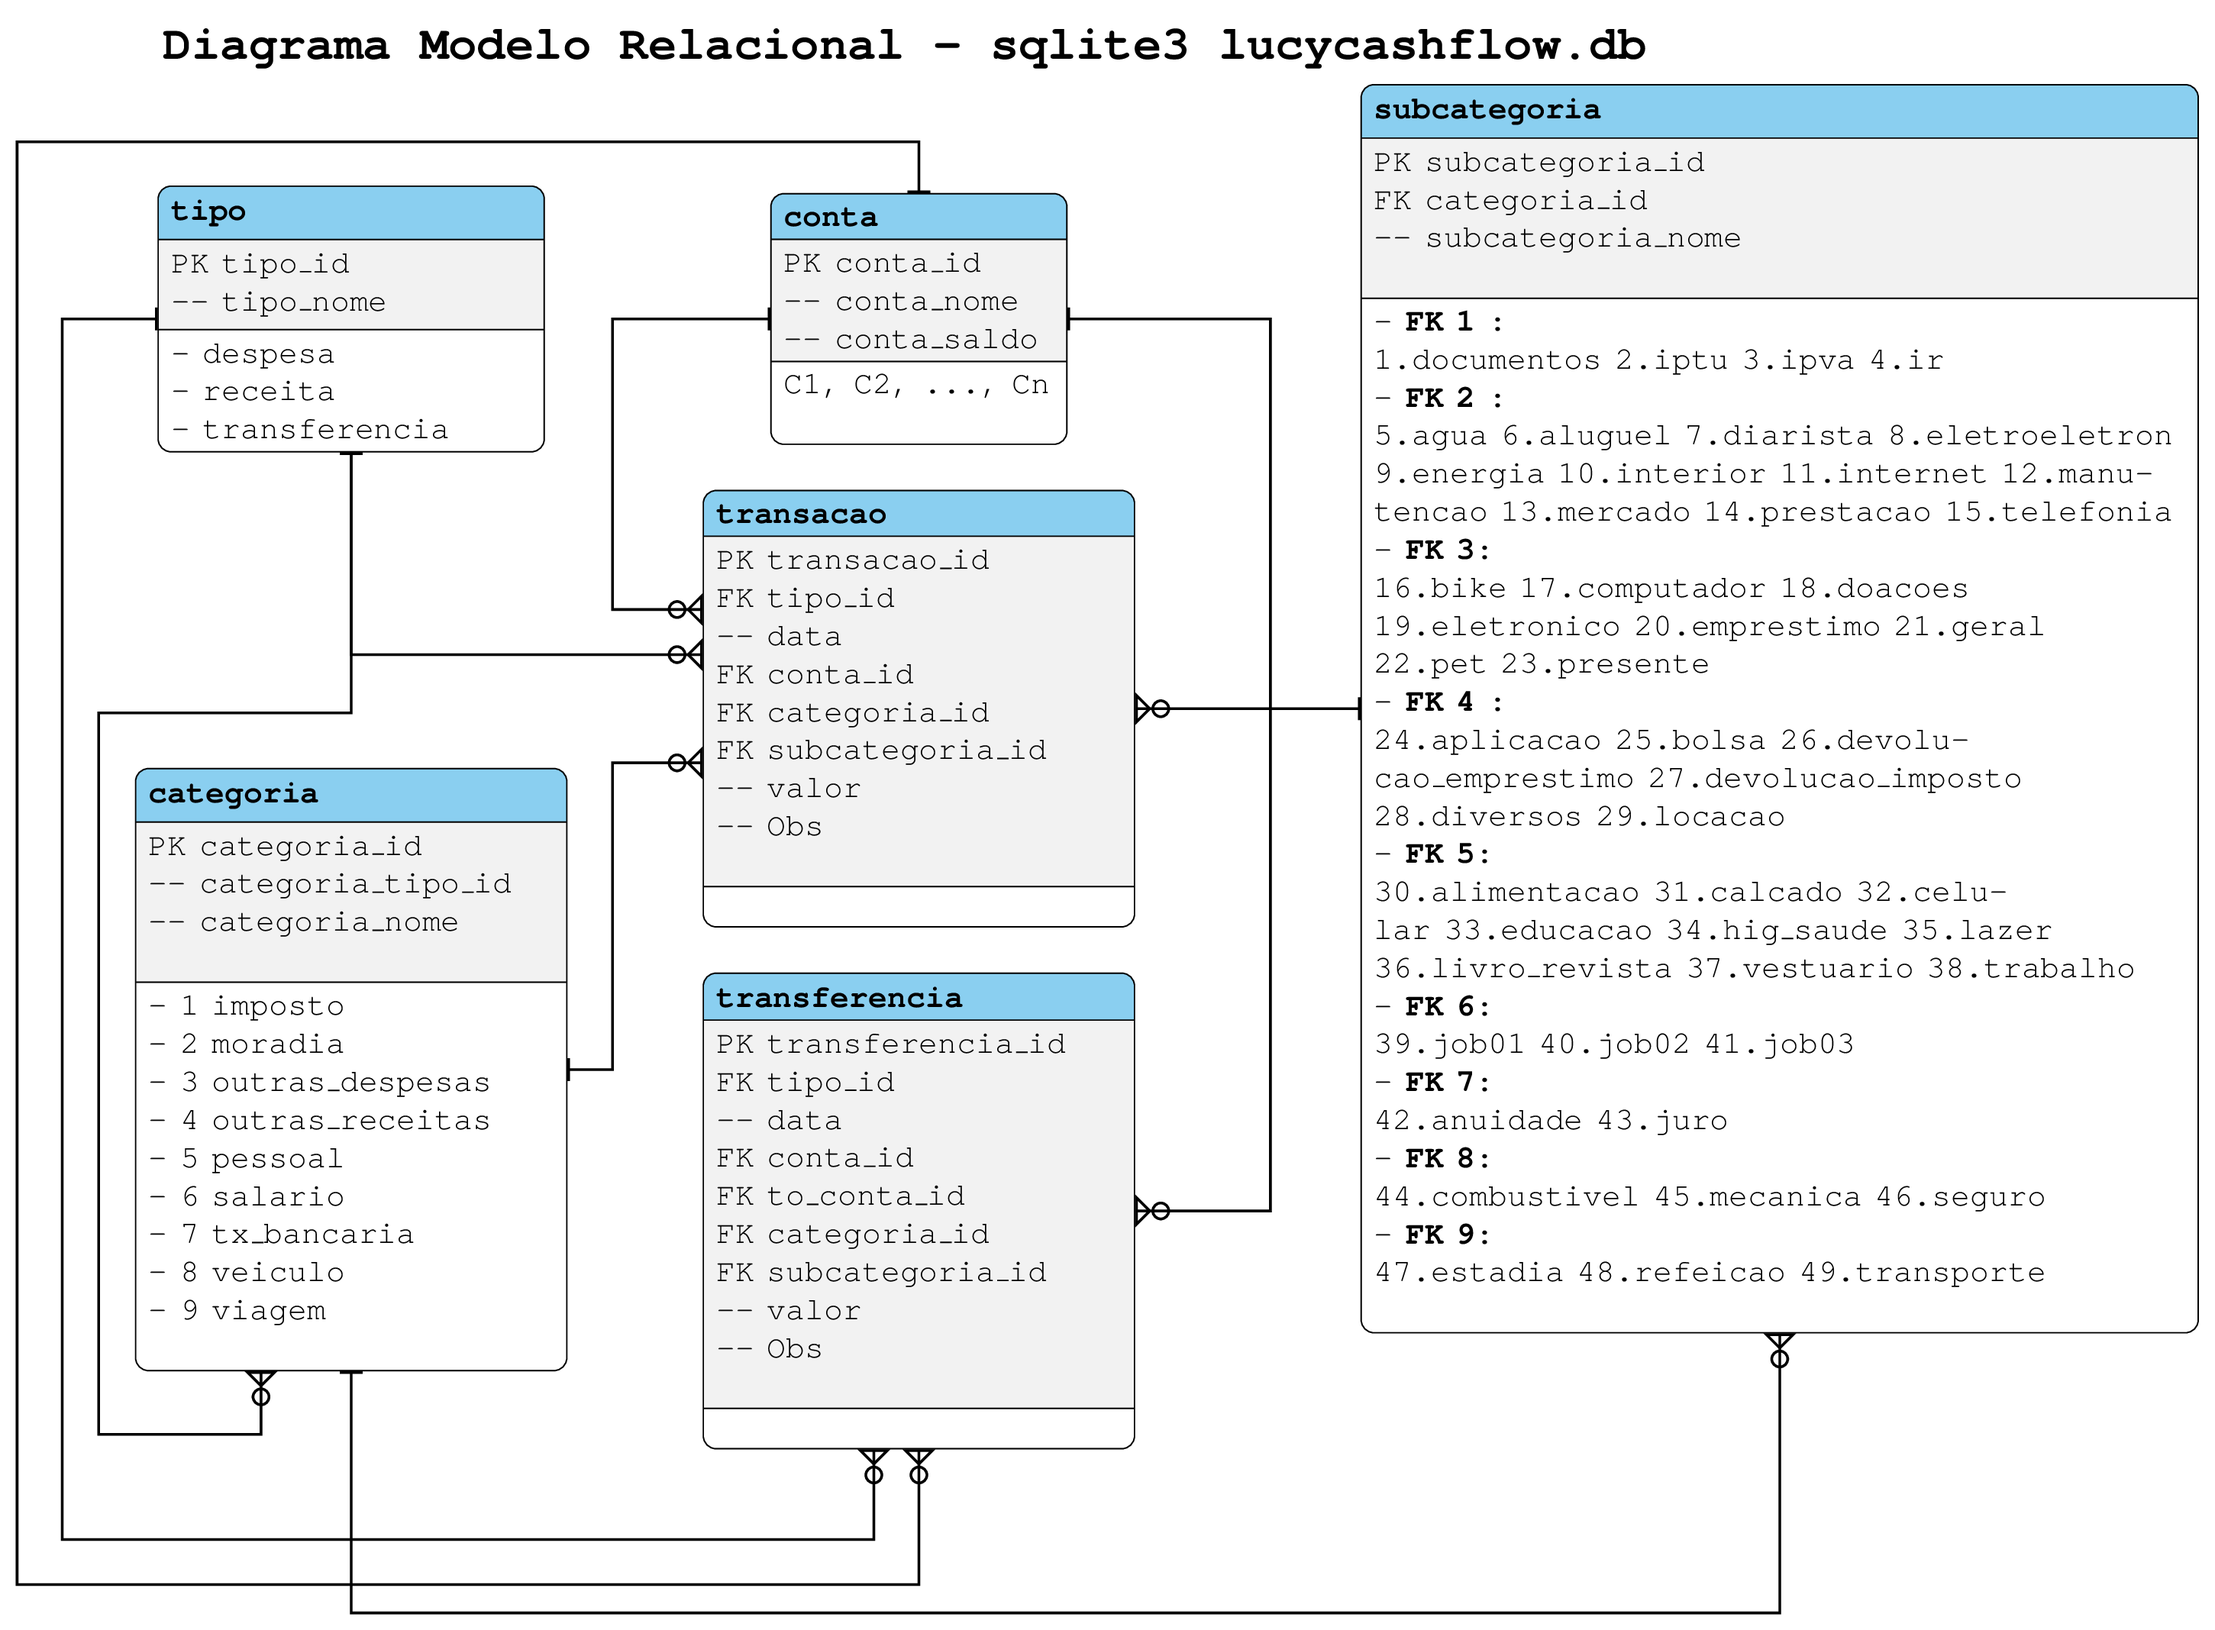
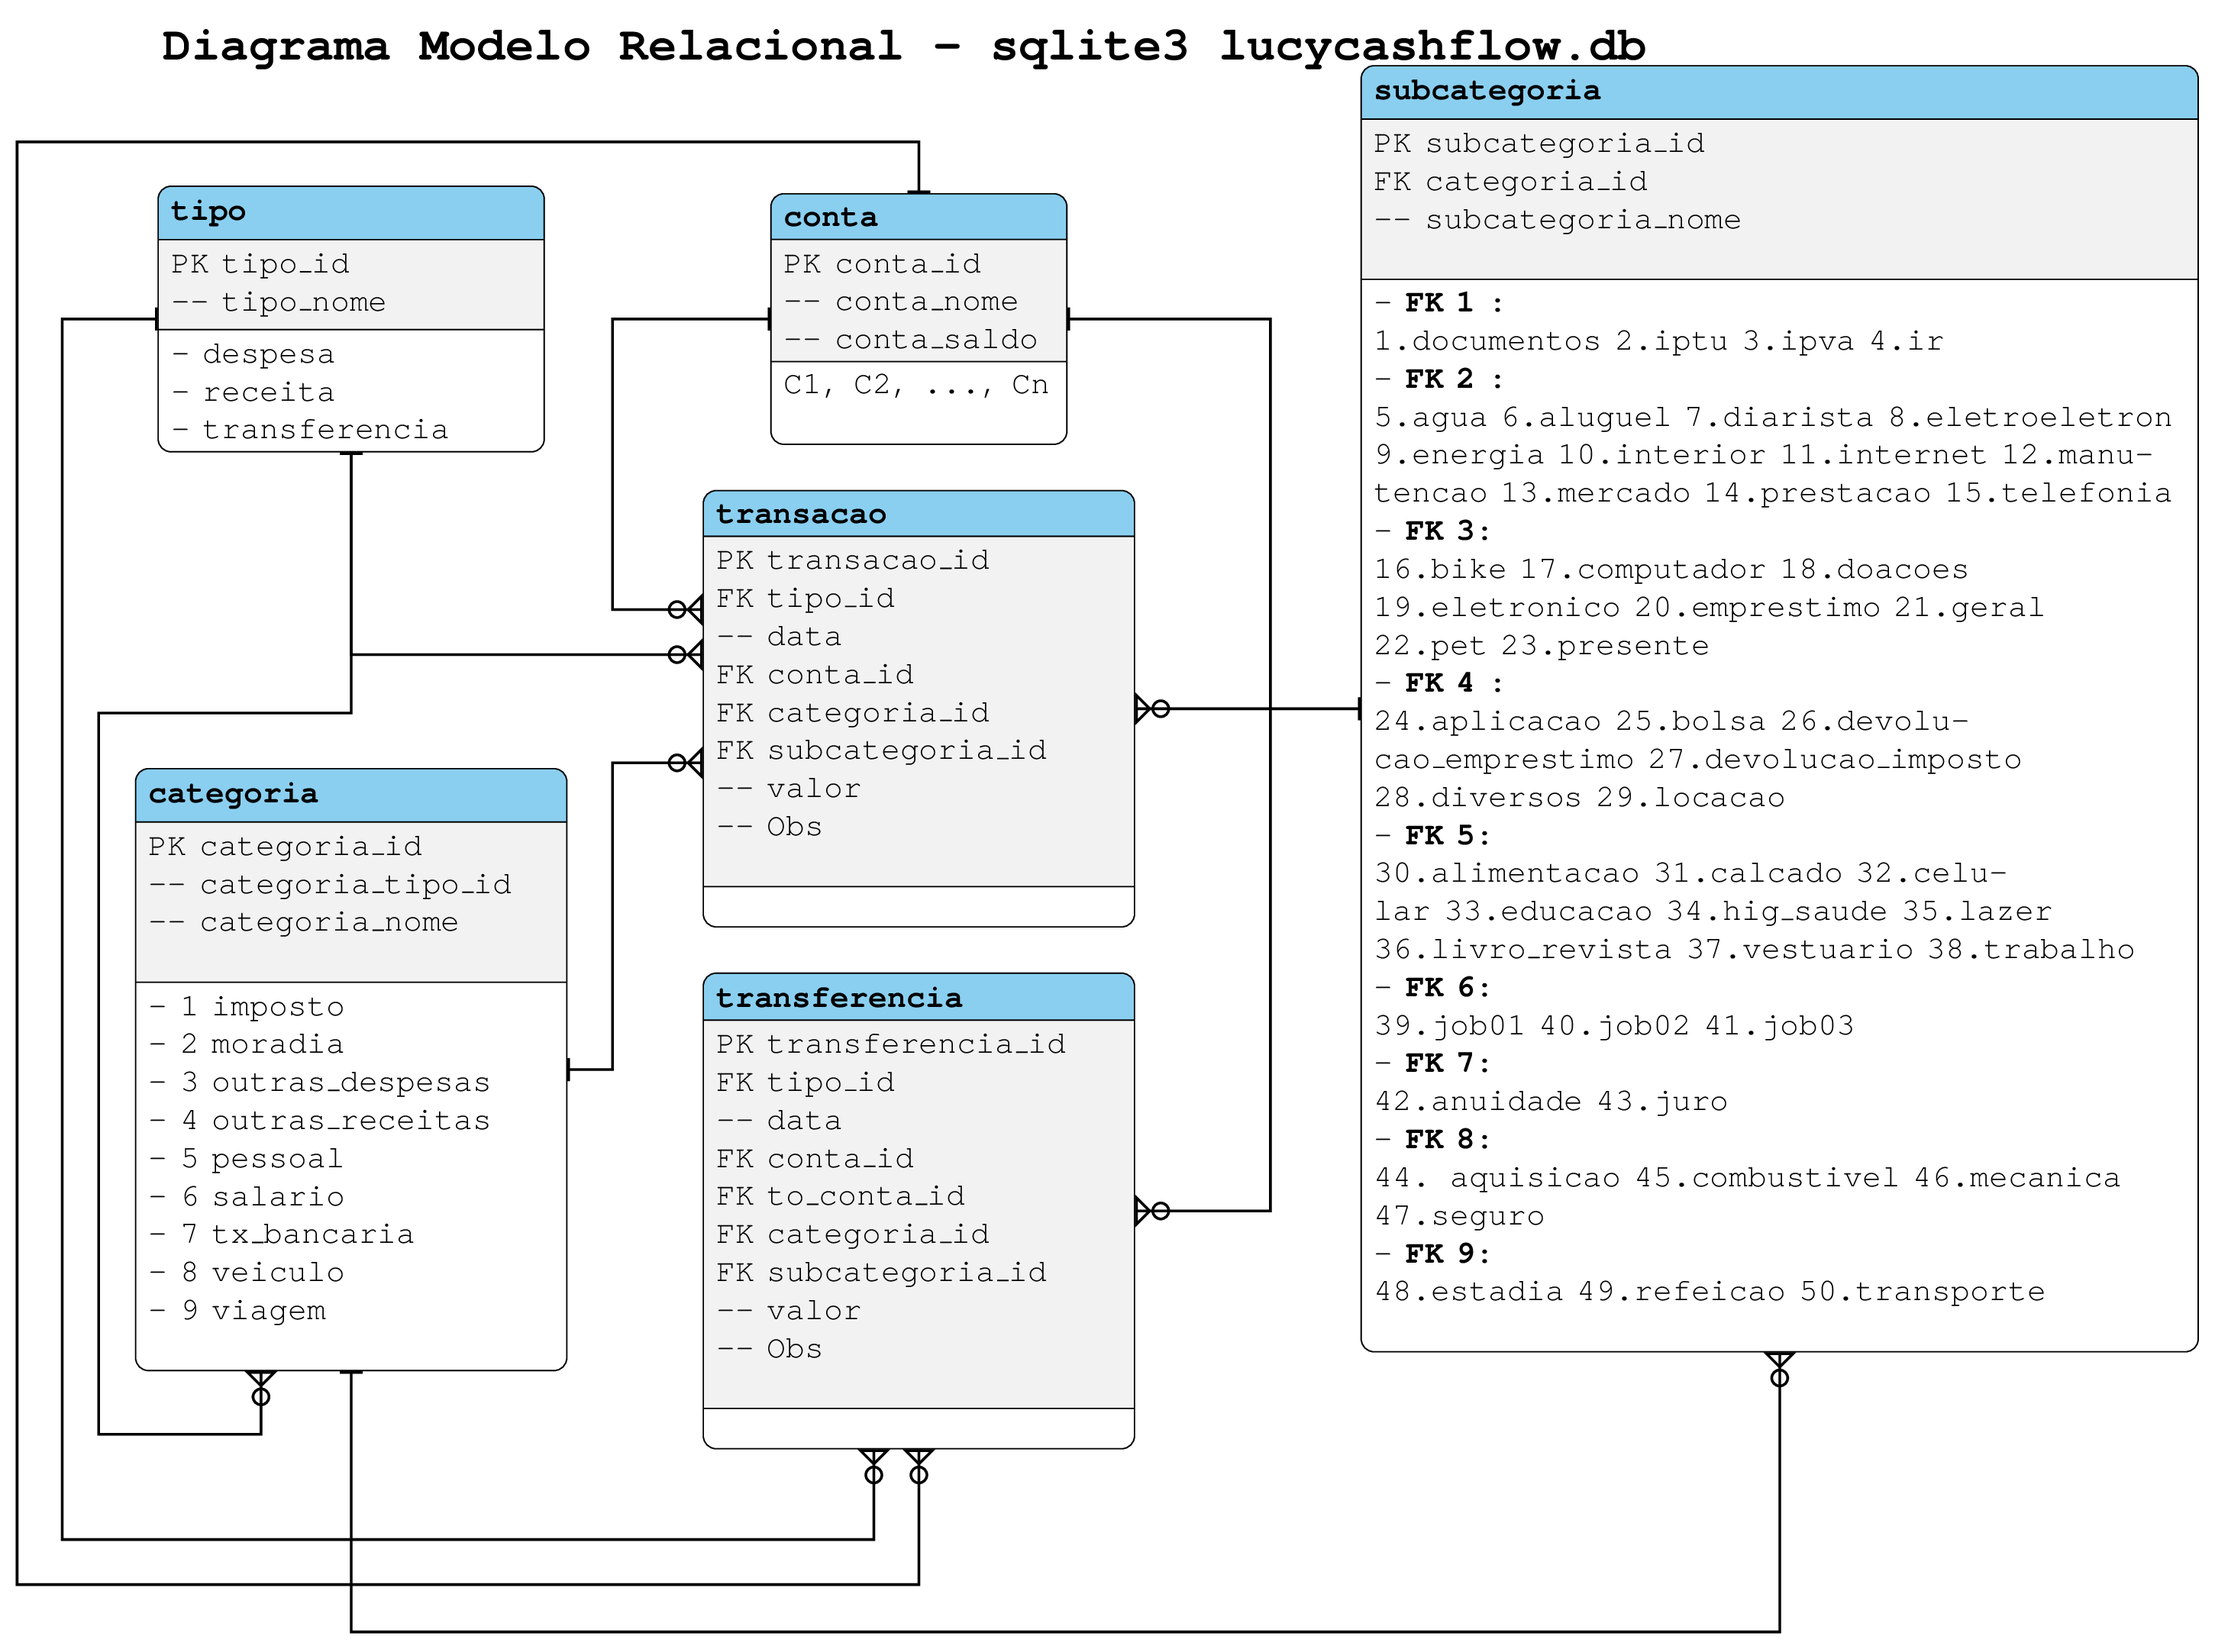
updated subcategoria, add aquisicao for categoria veiculo

diff --git a/templates/base.html b/templates/base.html
@@ -5,8 +5,8 @@
     <meta http-equiv="X-UA-Compatible" content="IE=edge">
     <meta name="viewport" content="width=device-width, initial-scale=1">
     <title> app lucycashflow</title>
-   <link href="{{ url_for('static', filename='css/bootstrap.min.css') }}" rel="stylesheet">
-   <link href="{{ url_for('static', filename='css/boostratp.css') }}" rel="stylesheet"> 
+    <link href="{{ url_for('static', filename='css/bootstrap.min.css') }}" rel="stylesheet">
+    <!-- <link href="{{ url_for('static', filename='css/boostratp.css') }}" rel="stylesheet"> --> 
   </head>
   
   {% block navbar %}

diff --git a/static/css/bootstrap.min.css b/static/css/bootstrap.min.css
@@ -11390,3 +11390,4 @@ a.text-dark:focus {
 }
 
 
+

diff --git a/create_tables.py b/create_tables.py
@@ -183,7 +183,7 @@ class populate_tables:
                            'livrorevista', 'vestuario', 'trabalho',
                            'job01', 'job02', 'job03',
                            'anuidade', 'juro',
-                           'combustivel', 'mecanica', 'seguro',
+                           'aquisicao', 'combustivel', 'mecanica', 'seguro',
                            'estadia', 'refeicao', 'transporte']
                 ls_fk = [1, 1, 1, 1,
                          2, 2, 2, 2, 2, 2, 2, 2, 2, 2, 2,
@@ -192,7 +192,7 @@ class populate_tables:
                          5, 5, 5, 5, 5, 5, 5, 5, 5,
                          6, 6, 6,
                          7, 7,
-                         8, 8, 8,
+                         8, 8, 8, 8,
                          9, 9, 9]
                 for i in range(len(ls_fill)):
                     ins = str("INSERT INTO subcategoria VALUES (NULL, " +

diff --git a/models/genrelatorios.py b/models/genrelatorios.py
@@ -1,7 +1,7 @@
 # ======================================================================
 #                                         https://rafatieppo.github.io/
 #                                         13-06-2020
-# file to create extrato
+# file to create reports
 # ======================================================================
 
 

diff --git a/app_lucycashflow.py b/app_lucycashflow.py
@@ -19,7 +19,7 @@ from flask import request, flash, jsonify
 import os
 import pandas as pd
 import json
-
+import datetime as dt
 
 # connecting
 cdb = connect_db('db_lucycashflow.db')
